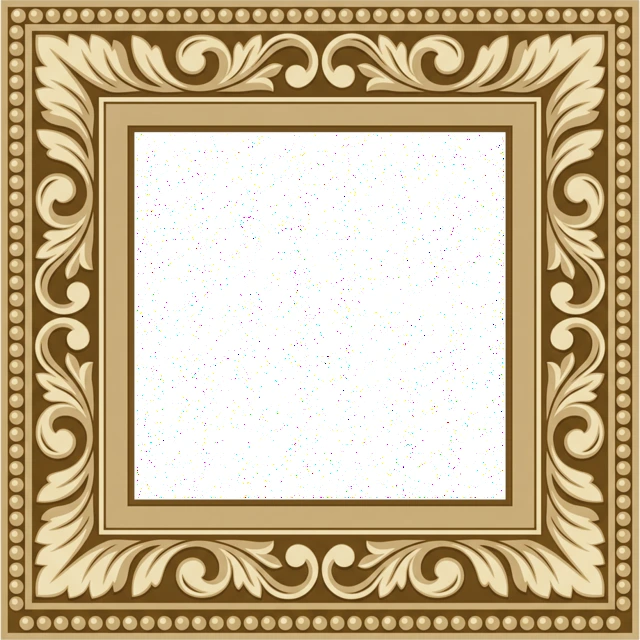
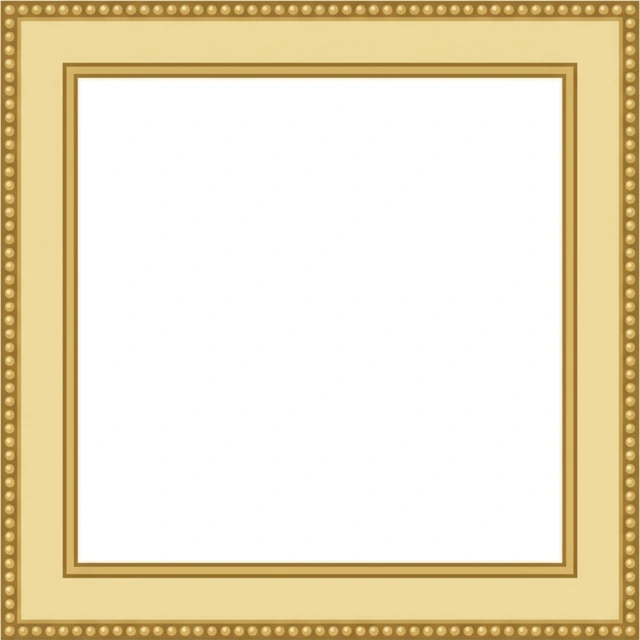
Subtler frame, no year chips on the phone, and put the scroll lock back
The gilt moulding was doing too much. Replaced with a slim gold band and a
single row of fine beading, on a thinner border so less of it shows.

On a phone the story drops the year chips entirely — you swipe the photographs
and the year under them follows whichever one you land on, so the chips were a
second control for the same thing. The close button moves down clear of the
notch.

Reverted the scroll-lock change from the last commit. Releasing the document on
touch so an embedded case study could scroll just made the whole page scroll
instead, which is worse. The document is locked again and the frame fills a
clipped wrapper so the embedded page scrolls itself.

diff --git a/src/landing/room.css b/src/landing/room.css
@@ -328,13 +328,13 @@
   background: var(--cream-50);
   border-style: solid;
   border-image-source: url("/scene/frame-gold.webp");
-  border-image-slice: 138;
+  border-image-slice: 82;
   border-image-repeat: round;
 }
 
 .rm-monitor-bezel {
   padding: 0.3cqw;
-  border-width: 1.5cqw;
+  border-width: 1.05cqw;
 }
 
 .rm-monitor-bezel img {
@@ -381,7 +381,7 @@
 
 .rm-frame-body {
   padding: 0.28cqw;
-  border-width: 1.25cqw;
+  border-width: 0.9cqw;
 }
 
 .rm-frame-body img {
@@ -1386,8 +1386,10 @@
     aspect-ratio: 4 / 5;
   }
 
-  /* The timeline becomes a scrolling row of years. The drawn path and the
-     absolute placement are desktop-only ideas. */
+  /* No timeline on a phone at all: you swipe the photographs, and the year
+     under them changes with whichever one you land on. */
+  .rm-sheet[data-section="story"] .pc-zone-r { display: none; }
+
   .rm-sheet .pc-timeline {
     max-width: none;
     margin: 0;
@@ -1465,15 +1467,18 @@
 
 
 
-/* On touch the frame keeps its own height and scrolls natively; forcing it
-   tall only revealed blank page below the content. */
+/* On touch the wrapper must not scroll — that only moved the page instead of
+   the embedded case study. The wrapper is clipped and the frame fills it, so
+   the embedded page scrolls itself. */
 @media (hover: none) and (pointer: coarse) {
   .work-stage {
     overflow: hidden;
+    -webkit-overflow-scrolling: auto;
   }
 
   .work-frame {
     height: 100%;
+    touch-action: auto;
   }
 }
 
@@ -1621,11 +1626,12 @@
   }
 }
 
-/* The way out of an open sheet on a phone. */
+/* The way out of an open sheet on a phone. Clear of the notch and the
+   browser chrome, not jammed against the top edge. */
 .rm-sheet-x {
   position: absolute;
-  top: 0;
-  right: 0;
+  top: calc(env(safe-area-inset-top, 0px) + 14px);
+  right: 4px;
   z-index: 2;
   display: flex;
   align-items: center;

diff --git a/src/App.jsx b/src/App.jsx
@@ -520,13 +520,8 @@ function WorkBrowserModal({ onClose, initialSlug = "b2c", origin = null }) {
   useEffect(() => {
     const previousBodyOverflow = document.body.style.overflow;
     const previousHtmlOverflow = document.documentElement.style.overflow;
-    // Only on pointer devices. On touch, locking the document also stops the
-    // embedded case-study page from scrolling inside its frame.
-    const coarse = window.matchMedia("(pointer: coarse)").matches;
-    if (!coarse) {
-      document.body.style.overflow = "hidden";
-      document.documentElement.style.overflow = "hidden";
-    }
+    document.body.style.overflow = "hidden";
+    document.documentElement.style.overflow = "hidden";
 
     return () => {
       document.body.style.overflow = previousBodyOverflow;
